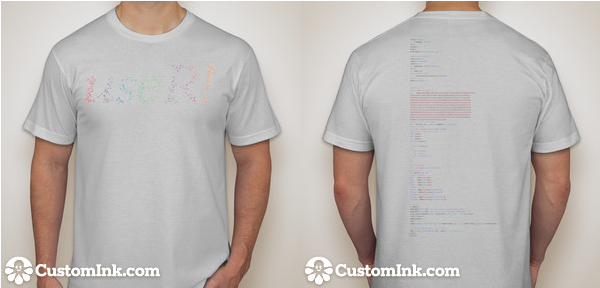
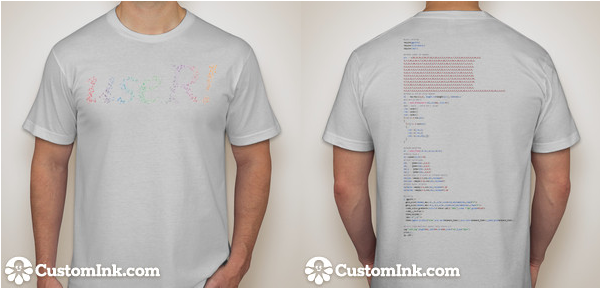
code update by @royfrancis

Changed region(s): [[0.66, 0.125, 0.84, 0.8125], [0.33, 0.2188, 0.36, 0.2812], [0.15, 0.3125, 0.18, 0.3438]]

diff --git a/index.md b/index.md
@@ -525,27 +525,13 @@ ggsave('tshirtImage.png', width = 8.5, height = 2)
 ### Code
 
 {% highlight r %}
-library(EBImage)
-u <- readImage("useR.jpg")
-str(u)
-display(u)
-print(u)
-write.table(u@.Data,"text.txt",sep="\t")
+#useR! Design R Script
 
-#CONVERT DATA TO REPEATS
+#load libraries
 require(ggplot2)
 require(RColorBrewer)
 require(Cairo)
-u1<-read.delim("useR.txt",header=F)
-str(u1)
-u2<-round(u1,0)
-#get contiguous repeats
-l1 <- rle(as.vector(t(as.matrix(u2))))$lengths
-#print
-paste(l1,collapse=",")
 
-#--------------------------------------------------------------------------
-#REPEATS TO PLOT
 #create number of repeats
 pos <- c(60,13,14,5,60,17,10,5,63,5,5,5,9,5,63,4,7,5,8,5,63,4,8,4,8,4,64,4,8,5,7,4,64,3,10,4,7,4,64,3,10,4,6,4,64,4,10,4,6,4,64,4,10,4,6,4,7,3,11,2,9,5,12,5,10,4,9,4,7,4,6,4,9,3,9,7,9,8,9,3,10,4,7,3,5,6,9,3,7,2,3,4,7,3,4,4,8,3,9,4,8,3,4,2,1,4,9,3,6,2,6,2,6,3,5,4,7,4,9,4,8,3,3,2,2,3,9,4,6,2,13,3,6,4,7,4,8,4,9,2,8,3,9,4,5,3,12,3,7,4,7,4,6,4,11,2,8,3,9,3,6,3,12,3,7,3,8,12,12,3,7,4,9,3,6,4,10,3,7,3,9,12,12,3,7,3,10,3,6,5,9,3,5,4,9,4,5,4,12,2,8,3,9,4,7,6,6,4,3,4,11,4,5,5,11,2,8,3,8,4,9,6,5,9,13,4,6,4,11,2,7,4,8,4,10,6,4,6,16,4,6,4,11,2,7,4,7,5,11,5,4,3,19,3,8,4,19,3,7,6,12,5,3,3,18,4,8,4,19,3,6,2,1,4,13,4,2,4,18,4,8,5,18,3,5,2,2,3,15,3,2,4,18,4,9,5,16,4,4,2,3,3,3,1,11,3,3,4,9,2,6,4,9,5,6,3,7,4,3,2,4,3,2,2,1,3,7,2,4,4,8,2,7,4,10,5,4,5,6,4,2,2,4,7,2,4,5,3,4,5,5,3,7,5,11,4,4,5,6,7,5,6,3,6,2,3,5,11,8,6,11,5,3,5,6,6,6,5,5,8,8,9,6,12,10,5,1,5,7,3,9,2,8,5,12,4,9,12,13,2,1,4,6)
 #create 1s and 0s using repeats
@@ -575,22 +561,22 @@ d4$x <- jitter(d4$x,4,0.5)
 d4$y <- jitter(d4$y,4,0.5)
 d4$x1 <- jitter(d4$x,4,0.5)
 d4$y1 <- jitter(d4$y,4,0.5)
-#random size between 1 to 6
+#random size in 2 layers to increase density
 d4$size<-sample(1:9,nrow(d4),replace=T)
 d4$size1<-sample(9:16,nrow(d4),replace=T)
-#random alpha between 0.4 and 1
+#random alpha variation
 d4$alpha<-sample(2:4,nrow(d4),replace=T)/10
 d4$alpha1<-sample(4:9,nrow(d4),replace=T)/10
 
 #plotting
 p<-ggplot()+
-geom_point(data=d4,aes(x=x,y=y,col=x,size=size,alpha=alpha),shape="+")+
-geom_point(data=d4,aes(x=x1,y=y1,col=x,size=size1,alpha=alpha1),shape="+")+
-scale_colour_gradientn(colours= brewer.pal(5,"Set1"),space ="rgb",guide=FALSE)+
-scale_y_reverse()+
-theme_minimal()+
-labs(x="",y="")+
-theme(legend.position="none",axis.text=element_blank(),axis.ticks=element_blank(),panel.grid=element_blank())
+  geom_point(data=d4,aes(x=x,y=y,col=x,size=size,alpha=alpha),shape="+")+
+  geom_point(data=d4,aes(x=x1,y=y1,col=x,size=size1,alpha=alpha1),shape="+")+
+  scale_colour_gradientn(colours= brewer.pal(5,"Set1"),space ="rgb",guide=FALSE)+
+  scale_y_reverse()+
+  theme_minimal()+
+  labs(x="",y="")+
+  theme(legend.position="none",axis.text=element_blank(),axis.ticks=element_blank(),panel.grid=element_blank())
 
 #export image #maintain aspect ratio around 1:3
 png("useR.png",height=10,width=30,res=200,units="cm",type="cairo")
